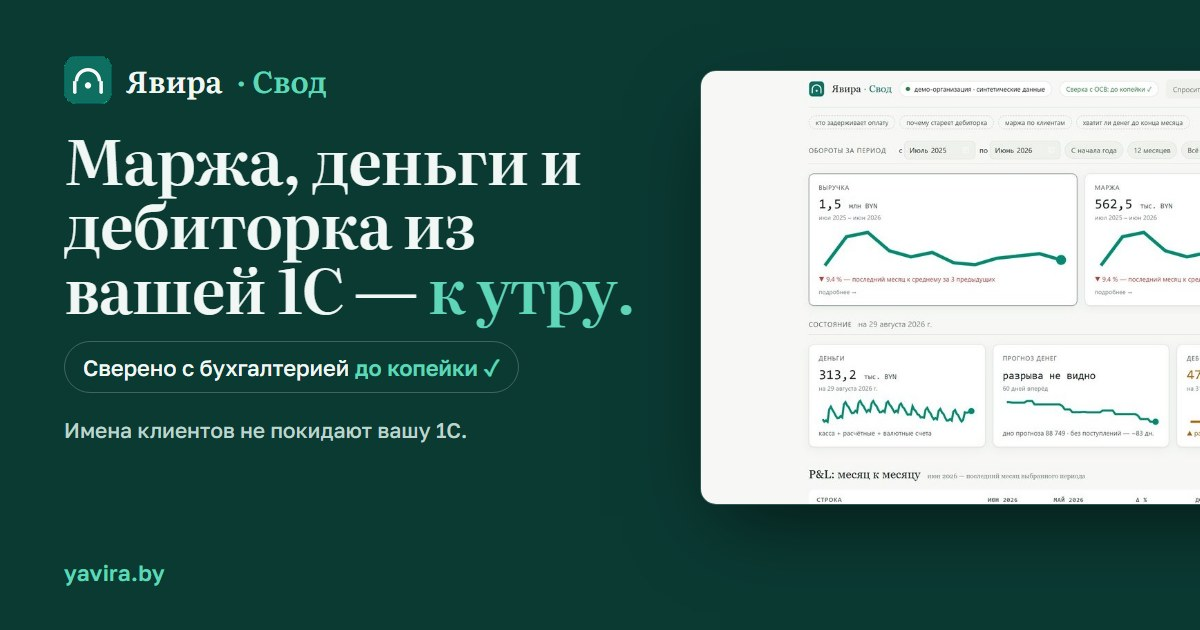
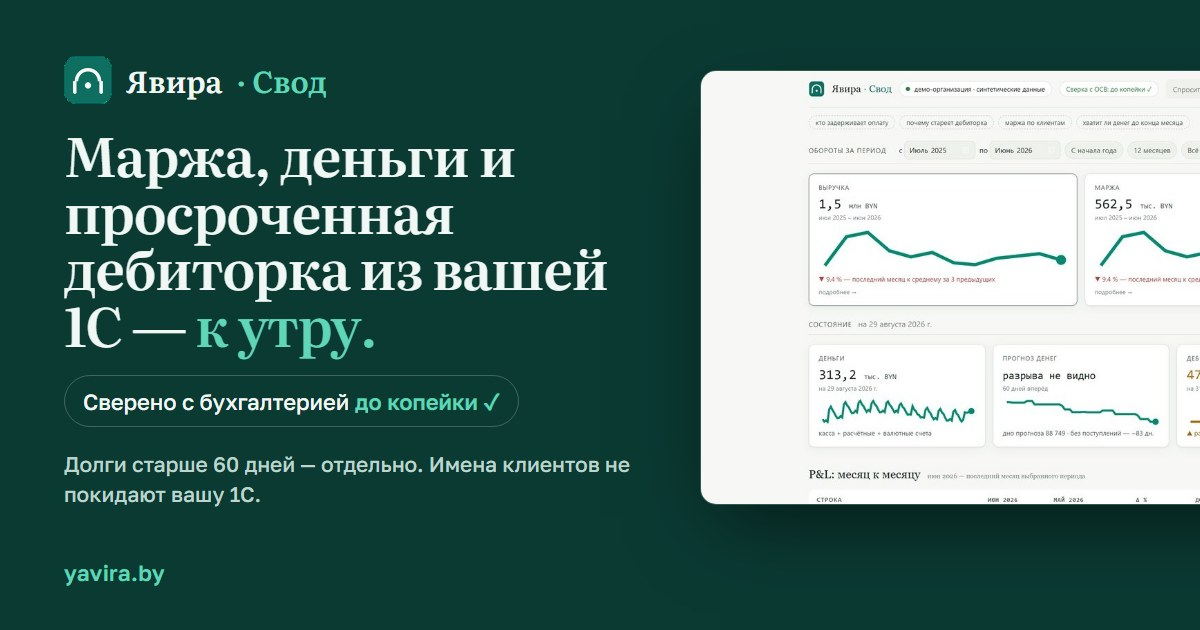
Лендинг, вторая итерация (Claude Design по брифу 17.10): «просроченная дебиторка» с «старше 60 дней», «без публикации» первой, интерактивная приватность, ⅔ полосой, кнопки в тарифах; превью и llms.txt под новый заголовок

Changed region(s): [[0.0308, 0.2111, 0.5242, 0.6937], [0.0308, 0.7238, 0.5242, 0.8143]]

diff --git a/index.html b/index.html
@@ -3,8 +3,8 @@
 <head>
 <meta charset="utf-8">
 <meta name="viewport" content="width=device-width, initial-scale=1">
-<title>Явира · Свод — маржа, деньги и дебиторка из вашей 1С к утру</title>
-<meta name="description" content="Управленческая аналитика из 1С для собственника: маржа, деньги и дебиторка — к утру. Сверено с бухгалтерией до копейки. Имена клиентов не покидают вашу 1С.">
+<title>Явира · Свод — маржа, деньги и просроченная дебиторка из вашей 1С к утру</title>
+<meta name="description" content="Управленческая аналитика из 1С для собственника: маржа, деньги и просроченная дебиторка (долги старше 60 дней) — к утру. Сверено с бухгалтерией до копейки. Имена клиентов не покидают вашу 1С.">
 <meta name="robots" content="index, follow">
 <meta name="google-site-verification" content="lBrbj4LfIhwT6RFKzpgSrV05ovWxNRhJOcgZC73IVL0">
 <meta name="yandex-verification" content="290878604571fc91">
@@ -14,13 +14,13 @@
 <meta property="og:locale" content="ru_RU">
 <meta property="og:site_name" content="Явира · Свод">
 <meta property="og:url" content="https://yavira.by/">
-<meta property="og:title" content="Явира · Свод — маржа, деньги и дебиторка из вашей 1С к утру">
-<meta property="og:description" content="Управленческая аналитика из 1С для собственника: маржа, деньги и дебиторка — к утру. Сверено с бухгалтерией до копейки. Имена клиентов не покидают вашу 1С.">
+<meta property="og:title" content="Явира · Свод — маржа, деньги и просроченная дебиторка из вашей 1С к утру">
+<meta property="og:description" content="Управленческая аналитика из 1С для собственника: маржа, деньги и просроченная дебиторка (долги старше 60 дней) — к утру. Сверено с бухгалтерией до копейки. Имена клиентов не покидают вашу 1С.">
 <meta property="og:image" content="https://yavira.by/img/og_cover.jpg">
 <meta property="og:image:type" content="image/jpeg">
 <meta property="og:image:width" content="1200">
 <meta property="og:image:height" content="630">
-<meta property="og:image:alt" content="Явира · Свод: маржа, деньги и дебиторка из вашей 1С — к утру. Сверено с бухгалтерией до копейки.">
+<meta property="og:image:alt" content="Явира · Свод: маржа, деньги и просроченная дебиторка из вашей 1С — к утру. Сверено с бухгалтерией до копейки.">
 <meta name="twitter:card" content="summary_large_image">
 <meta name="twitter:image" content="https://yavira.by/img/og_cover.jpg">
 <link rel="icon" type="image/png" href="img/logo.png">
@@ -75,7 +75,7 @@
     "RU",
     "KZ"
    ],
-   "description": "Управленческая аналитика из 1С для собственника малого и среднего бизнеса: маржа по клиентам и продуктам, деньги и прогноз денег, дебиторка и кредиторка по возрасту, запасы, P&L месяц к месяцу, точка безубыточности, находки и ассистент. Каждая цифра сверена с бухгалтерией 1С до копейки; имена контрагентов и номенклатуры заменяются метками внутри 1С и не покидают её.",
+   "description": "Управленческая аналитика из 1С для собственника малого и среднего бизнеса: маржа по клиентам и продуктам, деньги и прогноз денег, дебиторка и кредиторка по возрасту (просроченная дебиторка — долги старше 60 дней — отдельно), запасы, P&L месяц к месяцу, точка безубыточности, находки и ассистент. Каждая цифра сверена с бухгалтерией 1С до копейки; имена контрагентов и номенклатуры заменяются метками внутри 1С и не покидают её.",
    "publisher": {
     "@id": "https://yavira.by/#org"
    }
@@ -128,6 +128,21 @@ body{margin:0}
 .yv .ic-sun{display:none}.yv .ic-moon{display:inline-flex}
 .yv[data-theme=dark] .ic-sun{display:inline-flex}.yv[data-theme=dark] .ic-moon{display:none}
 @media (prefers-color-scheme: dark){.yv[data-theme=auto] .ic-sun{display:inline-flex}.yv[data-theme=auto] .ic-moon{display:none}}
+
+/* приватность: метка ⇄ имя (без JS — статично видно имя) */
+.yv .pv-name{display:inline-grid;min-width:0}
+.yv .pv-name>span{grid-area:1/1;transition:opacity .25s ease,transform .25s ease}
+.yv .pv-tag{opacity:0;transform:translateY(-6px)}
+.yv .pv-real{opacity:1;transform:none}
+.yv .pv-js .pv-tag{opacity:1;transform:none}
+.yv .pv-js .pv-real{opacity:0;transform:translateY(6px)}
+.yv .pv-js[data-revealed=true] .pv-tag{opacity:0;transform:translateY(-6px)}
+.yv .pv-js[data-revealed=true] .pv-real{opacity:1;transform:none}
+.yv .pv-btn{display:inline-flex;align-items:center;gap:8px;align-self:flex-start;min-height:44px;padding:0 16px;border:1px solid var(--line);border-radius:10px;background:var(--surface);color:var(--text);font:inherit;font-size:15px;font-weight:500;cursor:pointer;transition:border-color .15s,color .15s}
+.yv .pv-btn:hover{border-color:var(--brand);color:var(--brand)}
+.yv .pv-btn[aria-pressed=true]{border-color:var(--brand);color:var(--brand)}
+.yv .pv-btn[hidden]{display:none}
+@media (prefers-reduced-motion: reduce){.yv .pv-name>span{transition:none}}
 </style>
 </head>
 <body>
@@ -164,9 +179,9 @@ body{margin:0}
 <div style="max-width: 1200px; margin: 0 auto; display: flex; flex-direction: column; gap: clamp(40px, 5vw, 64px)">
 <div style="max-width: 980px; display: flex; flex-direction: column; gap: 24px">
 <p style="margin: 0; font-size: 14px; font-weight: 600; letter-spacing: 0.1em; text-transform: uppercase; color: var(--h-accent)">Управленческая аналитика из вашей 1С</p>
-<h1 style="margin: 0; font-family: 'Literata', Georgia, serif; font-weight: 600; font-size: clamp(42px, 6.6vw, 88px); line-height: 1.02; letter-spacing: -0.025em; text-wrap: balance">Маржа, деньги и дебиторка из вашей 1С — <span style="color: var(--h-accent)">к утру.</span></h1>
+<h1 style="margin: 0; font-family: 'Literata', Georgia, serif; font-weight: 600; font-size: clamp(38px, 6.6vw, 88px); line-height: 1.02; letter-spacing: -0.025em; text-wrap: balance">Маржа, деньги и&nbsp;просроченная дебиторка из&nbsp;вашей 1С&nbsp;—&nbsp;<span style="color: var(--h-accent); white-space: nowrap">к утру.</span></h1>
 <p style="margin: 0; display: inline-flex; align-self: flex-start; align-items: center; gap: 10px; padding: 10px 16px; border-radius: 999px; border: 1px solid var(--h-line); font-size: clamp(16px, 1.5vw, 19px); font-weight: 500"><svg width="18" height="18" viewBox="0 0 24 24" fill="none" stroke="currentColor" stroke-width="2.4" stroke-linecap="round" stroke-linejoin="round" aria-hidden="true" style="color: var(--h-accent)"><path d="M5 12.5l4.5 4.5L19 7.5"></path></svg><span>Те же цифры, что в <span style="font-weight: 700; text-decoration: underline; text-decoration-color: var(--h-line); text-underline-offset: 4px">бухгалтерии</span>. <span style="color: var(--h-accent); font-weight: 700">Другие ответы.</span></span></p>
-<p style="margin: 0; font-size: clamp(17px, 1.6vw, 21px); line-height: 1.55; color: var(--h-text-2); max-width: 760px">Ставите расширение в 1С — и каждое утро видите, на чём зарабатываете, куда уходят деньги и кто задерживает оплату. Имена клиентов не покидают вашу 1С.</p>
+<p style="margin: 0; font-size: clamp(17px, 1.6vw, 21px); line-height: 1.55; color: var(--h-text-2); max-width: 760px">Ставите расширение в 1С — и каждое утро видите, на чём зарабатываете, куда уходят деньги и кто задерживает оплату — долги старше 60 дней видны отдельно. Имена клиентов не покидают вашу 1С.</p>
 <div style="display: flex; flex-wrap: wrap; gap: 12px; margin-top: 6px">
 <a class="btn btn-hero" href="https://t.me/yavira_bot" style="display: inline-flex; align-items: center; min-height: 56px; padding: 0 30px; background: var(--h-accent); border-radius: 12px; font-size: 18px; font-weight: 600; box-sizing: border-box">Оставить заявку</a>
 <a class="btn btn-hero-ghost" href="https://demo.yavira.by" style="display: inline-flex; align-items: center; min-height: 56px; padding: 0 26px; border: 1px solid var(--h-line); border-radius: 12px; font-size: 18px; font-weight: 500; box-sizing: border-box">Посмотреть демо — без регистрации</a>
@@ -192,7 +207,7 @@ body{margin:0}
 <svg viewBox="0 0 120 30" width="100%" height="34" preserveAspectRatio="none" aria-hidden="true" style="color: var(--h-accent); margin-top: 6px"><polyline class="draw" pathLength="1" points="2,20 6,24 10,10 14,22 18,8 22,20 26,12 30,22 34,9 38,19 42,11 46,21 50,9 54,20 58,12 62,22 66,10 70,21 74,13 78,23 82,11 86,20 90,14 94,24 98,12 102,22 106,15 110,22 114,14 118,13" fill="none" stroke="currentColor" stroke-width="2" stroke-linejoin="round" stroke-linecap="round" vector-effect="non-scaling-stroke"></polyline></svg>
 </div>
 <div style="background: var(--h-bg); padding: 24px 24px 20px; display: flex; flex-direction: column; gap: 6px">
-<span style="font-size: 12px; font-weight: 600; letter-spacing: 0.1em; text-transform: uppercase; color: var(--h-amber)">Дебиторка 60+ · находка</span>
+<span style="font-size: 12px; font-weight: 600; letter-spacing: 0.1em; text-transform: uppercase; color: var(--h-amber)">Просроченная · 60+ дней</span>
 <span class="num" style="font-size: clamp(34px, 3.2vw, 46px); white-space: nowrap; font-weight: 500; line-height: 1.05; letter-spacing: -0.02em; color: var(--h-amber)"><span data-count="47.9">47,9</span> <span style="font-size: 16px; color: var(--h-text-2); letter-spacing: 0; white-space: nowrap">тыс. BYN</span></span>
 <svg viewBox="0 0 120 30" width="100%" height="34" preserveAspectRatio="none" aria-hidden="true" style="color: var(--h-amber); margin-top: 6px"><polyline class="draw" pathLength="1" points="2,25 14,25 24,24 32,22 40,23 48,19 56,17 64,16 72,14 80,13 88,12 96,11 104,8 112,6 118,4" fill="none" stroke="currentColor" stroke-width="2.4" stroke-linejoin="round" stroke-linecap="round" vector-effect="non-scaling-stroke"></polyline></svg>
 </div>
@@ -240,7 +255,7 @@ body{margin:0}
 <div style="padding: 28px 28px 8px 0; display: flex; flex-direction: column; gap: 14px">
 <span class="num" style="font-size: 15px; color: var(--amber-text); font-weight: 500">03</span>
 <p style="margin: 0; font-family: 'Literata', Georgia, serif; font-size: clamp(26px, 2.6vw, 34px); line-height: 1.15; font-weight: 500">Кто держит мои деньги?</p>
-<p style="margin: 0; font-size: 16px; line-height: 1.55; color: var(--text-2)">Дебиторка и кредиторка по возрасту — и находки, когда что-то зависло.</p>
+<p style="margin: 0; font-size: 16px; line-height: 1.55; color: var(--text-2)">Дебиторка и кредиторка по возрасту; просроченная — долги старше 60 дней — отдельно. И находки, когда что-то зависло.</p>
 </div>
 </div>
 </div>
@@ -361,6 +376,14 @@ body{margin:0}
 <span style="font-size: 13px; font-weight: 600; letter-spacing: 0.08em; text-transform: uppercase">Находка</span>
 </div>
 <p style="margin: 0; font-family: 'Literata', Georgia, serif; font-size: clamp(26px, 2.8vw, 34px); line-height: 1.2; color: var(--text)">Один клиент держит две трети бизнеса</p>
+<figure style="margin: 4px 0 0; display: flex; flex-direction: column; gap: 10px">
+<p style="margin: 0; font-family: 'Literata', Georgia, serif; font-size: clamp(40px, 4.4vw, 56px); line-height: 1; font-weight: 600; color: var(--amber-text)">⅔ <span style="font-family: 'Golos Text', system-ui, sans-serif; font-size: 0.4em; font-weight: 600; letter-spacing: 0">выручки</span></p>
+<div role="img" aria-label="Один клиент — около двух третей выручки, остальные — около трети" style="display: flex; gap: 4px; height: 16px">
+<span style="flex: 2 1 0; border-radius: 999px 4px 4px 999px; background: var(--amber)"></span>
+<span style="flex: 1 1 0; border-radius: 4px 999px 999px 4px; background: var(--surface-2); box-shadow: inset 0 0 0 1px var(--text-3)"></span>
+</div>
+<figcaption aria-hidden="true" style="display: flex; gap: 4px; font-size: 13px; line-height: 1.3; color: var(--text-2)"><span style="flex: 2 1 0">один клиент</span><span style="flex: 1 1 0">остальные</span></figcaption>
+</figure>
 <p style="margin: 0; font-size: 15px; line-height: 1.55; color: var(--text-2)">Реальная находка первого подключения; имён мы не знаем — токенизация.</p>
 </div>
 <div style="padding: clamp(24px, 3vw, 36px); border-radius: 18px; border: 1px solid var(--line); background: var(--bg); display: flex; flex-direction: column; gap: 18px">
@@ -391,19 +414,6 @@ body{margin:0}
 <div style="padding: clamp(24px, 3vw, 36px); border-radius: 18px; background: var(--surface); border: 1px solid var(--line); display: flex; flex-direction: column; gap: 20px">
 <div style="display: flex; flex-direction: column; gap: 8px">
 <span class="num" style="font-size: 14px; color: var(--brand); font-weight: 500">А</span>
-<h3 style="margin: 0; font-family: 'Literata', Georgia, serif; font-weight: 500; font-size: 26px; line-height: 1.2">С публикацией — забираем мы</h3>
-<p style="margin: 0; font-size: 16px; line-height: 1.55; color: var(--text-2)">Подходит, если у вас есть веб-сервер (Apache или IIS) и администратор.</p>
-</div>
-<ol style="margin: 0; padding: 0; list-style: none; display: flex; flex-direction: column; gap: 16px; border-top: 1px solid var(--line); padding-top: 20px">
-<li style="display: flex; gap: 14px; align-items: flex-start"><span class="num" style="flex: none; width: 28px; height: 28px; border-radius: 50%; background: var(--brand-soft); color: var(--brand); display: flex; align-items: center; justify-content: center; font-size: 14px; font-weight: 500">1</span><span style="font-size: 16px; line-height: 1.55">Ваш программист 1С ставит расширение — 10 минут, без снятия конфигурации с поддержки.</span></li>
-<li style="display: flex; gap: 14px; align-items: flex-start"><span class="num" style="flex: none; width: 28px; height: 28px; border-radius: 50%; background: var(--brand-soft); color: var(--brand); display: flex; align-items: center; justify-content: center; font-size: 14px; font-weight: 500">2</span><span style="font-size: 16px; line-height: 1.55">Администратор публикует два HTTP-сервиса и открывает их <strong>только нашему адресу</strong> — файл настройки собирает мастер в кабинете.</span></li>
-<li style="display: flex; gap: 14px; align-items: flex-start"><span class="num" style="flex: none; width: 28px; height: 28px; border-radius: 50%; background: var(--brand-soft); color: var(--brand); display: flex; align-items: center; justify-content: center; font-size: 14px; font-weight: 500">3</span><span style="font-size: 16px; line-height: 1.55">Ключ доступа мы записываем в вашу базу сами, по кнопке в мастере. Дальше загрузка идёт сама, ночью.</span></li>
-</ol>
-</div>
-
-<div style="padding: clamp(24px, 3vw, 36px); border-radius: 18px; background: var(--surface); border: 1px solid var(--line); display: flex; flex-direction: column; gap: 20px">
-<div style="display: flex; flex-direction: column; gap: 8px">
-<span class="num" style="font-size: 14px; color: var(--brand); font-weight: 500">Б</span>
 <h3 style="margin: 0; font-family: 'Literata', Georgia, serif; font-weight: 500; font-size: 26px; line-height: 1.2">Без публикации — 1С отправляет сама</h3>
 <p style="margin: 0; font-size: 16px; line-height: 1.55; color: var(--text-2)">Подходит, если веб-сервера нет или открывать его наружу нельзя.</p>
 </div>
@@ -411,6 +421,19 @@ body{margin:0}
 <li style="display: flex; gap: 14px; align-items: flex-start"><span class="num" style="flex: none; width: 28px; height: 28px; border-radius: 50%; background: var(--brand-soft); color: var(--brand); display: flex; align-items: center; justify-content: center; font-size: 14px; font-weight: 500">1</span><span style="font-size: 16px; line-height: 1.55">Ставите расширение.</span></li>
 <li style="display: flex; gap: 14px; align-items: flex-start"><span class="num" style="flex: none; width: 28px; height: 28px; border-radius: 50%; background: var(--brand-soft); color: var(--brand); display: flex; align-items: center; justify-content: center; font-size: 14px; font-weight: 500">2</span><span style="font-size: 16px; line-height: 1.55">В кабинете получаете <strong>код подключения</strong>, в 1С вводите его в обработке «Явира: подключение без публикации».</span></li>
 <li style="display: flex; gap: 14px; align-items: flex-start"><span class="num" style="flex: none; width: 28px; height: 28px; border-radius: 50%; background: var(--brand-soft); color: var(--brand); display: flex; align-items: center; justify-content: center; font-size: 14px; font-weight: 500">3</span><span style="font-size: 16px; line-height: 1.55">Всё. 1С сама обращается к нам <strong>исходящим</strong> защищённым соединением — входящих подключений к вашей сети нет, настраивать ничего не нужно. Данные уходят, пока база открыта; закрыли — продолжится при следующем открытии.</span></li>
+</ol>
+</div>
+
+<div style="padding: clamp(24px, 3vw, 36px); border-radius: 18px; background: var(--surface); border: 1px solid var(--line); display: flex; flex-direction: column; gap: 20px">
+<div style="display: flex; flex-direction: column; gap: 8px">
+<span class="num" style="font-size: 14px; color: var(--brand); font-weight: 500">Б</span>
+<h3 style="margin: 0; font-family: 'Literata', Georgia, serif; font-weight: 500; font-size: 26px; line-height: 1.2">С публикацией — забираем мы</h3>
+<p style="margin: 0; font-size: 16px; line-height: 1.55; color: var(--text-2)">Подходит, если у вас есть веб-сервер (Apache или IIS) и администратор.</p>
+</div>
+<ol style="margin: 0; padding: 0; list-style: none; display: flex; flex-direction: column; gap: 16px; border-top: 1px solid var(--line); padding-top: 20px">
+<li style="display: flex; gap: 14px; align-items: flex-start"><span class="num" style="flex: none; width: 28px; height: 28px; border-radius: 50%; background: var(--brand-soft); color: var(--brand); display: flex; align-items: center; justify-content: center; font-size: 14px; font-weight: 500">1</span><span style="font-size: 16px; line-height: 1.55">Ваш программист 1С ставит расширение — 10 минут, без снятия конфигурации с поддержки.</span></li>
+<li style="display: flex; gap: 14px; align-items: flex-start"><span class="num" style="flex: none; width: 28px; height: 28px; border-radius: 50%; background: var(--brand-soft); color: var(--brand); display: flex; align-items: center; justify-content: center; font-size: 14px; font-weight: 500">2</span><span style="font-size: 16px; line-height: 1.55">Администратор публикует два HTTP-сервиса и открывает их <strong>только нашему адресу</strong> — файл настройки собирает мастер в кабинете.</span></li>
+<li style="display: flex; gap: 14px; align-items: flex-start"><span class="num" style="flex: none; width: 28px; height: 28px; border-radius: 50%; background: var(--brand-soft); color: var(--brand); display: flex; align-items: center; justify-content: center; font-size: 14px; font-weight: 500">3</span><span style="font-size: 16px; line-height: 1.55">Ключ доступа мы записываем в вашу базу сами, по кнопке в мастере. Дальше загрузка идёт сама, ночью.</span></li>
 </ol>
 </div>
 </div>
@@ -436,8 +459,9 @@ body{margin:0}
 <span style="font-size: 13px; font-weight: 600; letter-spacing: 0.08em; text-transform: uppercase; color: var(--brand)">Видите вы</span>
 <div style="border-radius: 10px; border: 1px solid var(--line); background: var(--surface); overflow: hidden">
 <div class="num" style="display: flex; justify-content: space-between; padding: 10px 16px; font-size: 12px; letter-spacing: 0.06em; text-transform: uppercase; color: var(--text-3); border-bottom: 1px solid var(--line)"><span>Контрагент</span><span>Долг (нетто)</span></div>
-<div style="display: flex; justify-content: space-between; gap: 16px; padding: 14px 16px; font-size: 17px"><span>Брест-Ритейл</span><span class="num">68 068</span></div>
+<div id="pv-row" style="display: flex; justify-content: space-between; gap: 16px; padding: 14px 16px; font-size: 17px"><span class="pv-name" aria-live="polite"><span class="pv-tag num" aria-hidden="true" style="color: var(--text-2)">t_7kq2…</span><span class="pv-real">Брест-Ритейл</span></span><span class="num">68 068</span></div>
 </div>
+<button type="button" id="pv-toggle" class="pv-btn" aria-pressed="false" aria-controls="pv-row" hidden><svg width="18" height="18" viewBox="0 0 24 24" fill="none" stroke="currentColor" stroke-width="1.8" stroke-linecap="round" stroke-linejoin="round" aria-hidden="true"><path d="M2 12s3.6-7 10-7 10 7 10 7-3.6 7-10 7-10-7-10-7z"></path><circle cx="12" cy="12" r="3"></circle></svg><span id="pv-label">Показать имя в браузере</span></button>
 <p style="margin: 0; font-size: 14px; line-height: 1.5; color: var(--text-3)">В своём браузере, после своей парольной фразы.</p>
 </div>
 <div style="flex: 0 1 auto; display: flex; align-items: center; justify-content: center; padding: 0 4px; color: var(--text-3)" class="hide-sm">
@@ -449,7 +473,7 @@ body{margin:0}
 <div class="num" style="display: flex; justify-content: space-between; padding: 10px 16px; font-size: 12px; letter-spacing: 0.06em; text-transform: uppercase; color: var(--text-3); border-bottom: 1px solid var(--line)"><span>Контрагент</span><span>Долг (нетто)</span></div>
 <div style="display: flex; justify-content: space-between; gap: 16px; padding: 14px 16px; font-size: 17px"><span class="num" style="color: var(--text-2)">t_7kq2…</span><span class="num">68 068</span></div>
 </div>
-<p style="margin: 0; font-size: 14px; line-height: 1.5; color: var(--text-3)">Метка вместо имени — на всех тарифах, включая пробный.</p>
+<p style="margin: 0; font-size: 14px; line-height: 1.5; color: var(--text-3)"><strong style="color: var(--text-2); font-weight: 600">Здесь имя остаётся скрытым.</strong> Метка вместо имени — на всех тарифах, включая пробный.</p>
 </div>
 </div>
 
@@ -502,6 +526,7 @@ body{margin:0}
 <li>одна загрузка, один период</li>
 <li>метки вместо имён</li>
 </ul>
+<a class="btn btn-ghost" href="https://t.me/yavira_bot" style="margin-top: auto; align-self: flex-start; display: inline-flex; align-items: center; min-height: 44px; padding: 0 18px; border: 1px solid var(--line); background: var(--surface); border-radius: 10px; font-size: 15px; font-weight: 600; box-sizing: border-box">Попробовать</a>
 </div>
 <div style="padding: 28px; border-radius: 16px; border: 1px solid var(--line); background: var(--bg); display: flex; flex-direction: column; gap: 16px">
 <h3 style="margin: 0; font-family: 'Literata', Georgia, serif; font-weight: 500; font-size: 26px">Базовый</h3>
@@ -510,6 +535,7 @@ body{margin:0}
 <li>история до <span class="num" style="color: var(--text)">2</span> лет</li>
 <li>метки вместо имён</li>
 </ul>
+<a class="btn btn-ghost" href="https://t.me/yavira_bot" style="margin-top: auto; align-self: flex-start; display: inline-flex; align-items: center; min-height: 44px; padding: 0 18px; border: 1px solid var(--line); background: var(--surface); border-radius: 10px; font-size: 15px; font-weight: 600; box-sizing: border-box">Обсудить подключение</a>
 </div>
 <div style="padding: 28px; border-radius: 16px; border: 2px solid var(--brand); background: var(--bg); display: flex; flex-direction: column; gap: 16px">
 <h3 style="margin: 0; font-family: 'Literata', Georgia, serif; font-weight: 500; font-size: 26px">Полный</h3>
@@ -519,6 +545,7 @@ body{margin:0}
 <li>ассистент</li>
 <li>метки вместо имён</li>
 </ul>
+<a class="btn btn-primary" href="https://t.me/yavira_bot" style="margin-top: auto; align-self: flex-start; display: inline-flex; align-items: center; min-height: 44px; padding: 0 18px; background: var(--brand); border-radius: 10px; font-size: 15px; font-weight: 600; box-sizing: border-box">Узнать условия</a>
 </div>
 </div>
 </div>
@@ -594,6 +621,16 @@ body{margin:0}
   // источник заявки: yavira.by/?from=<метка> → t.me/yavira_bot?start=<метка>; без метки — site
   var src='site';try{var f=new URLSearchParams(location.search).get('from');if(f&&/^[A-Za-z0-9_-]{1,64}$/.test(f))src=f}catch(e){}
   [].forEach.call(document.querySelectorAll('a[href="https://t.me/yavira_bot"]'),function(a){a.href='https://t.me/yavira_bot?start='+src});
+  // приватность: метка ⇄ имя в браузере (без JS остаётся статичное имя)
+  var pvRow=document.getElementById('pv-row'),pvBtn=document.getElementById('pv-toggle');
+  if(pvRow&&pvBtn){
+    var pvTag=pvRow.querySelector('.pv-tag'),pvReal=pvRow.querySelector('.pv-real'),pvLabel=document.getElementById('pv-label');
+    function pvSet(on){pvRow.setAttribute('data-revealed',on?'true':'false');pvBtn.setAttribute('aria-pressed',on?'true':'false');
+      pvLabel.textContent=on?'Скрыть имя':'Показать имя в браузере';
+      pvTag.setAttribute('aria-hidden',on?'true':'false');pvReal.setAttribute('aria-hidden',on?'false':'true')}
+    pvRow.classList.add('pv-js');pvSet(false);pvBtn.hidden=false;
+    pvBtn.addEventListener('click',function(){pvSet(pvBtn.getAttribute('aria-pressed')!=='true')});
+  }
   var reduce=false;try{reduce=window.matchMedia('(prefers-reduced-motion: reduce)').matches}catch(e){}
   if(reduce)return;
   var els=[].slice.call(document.querySelectorAll('[data-count]'));
